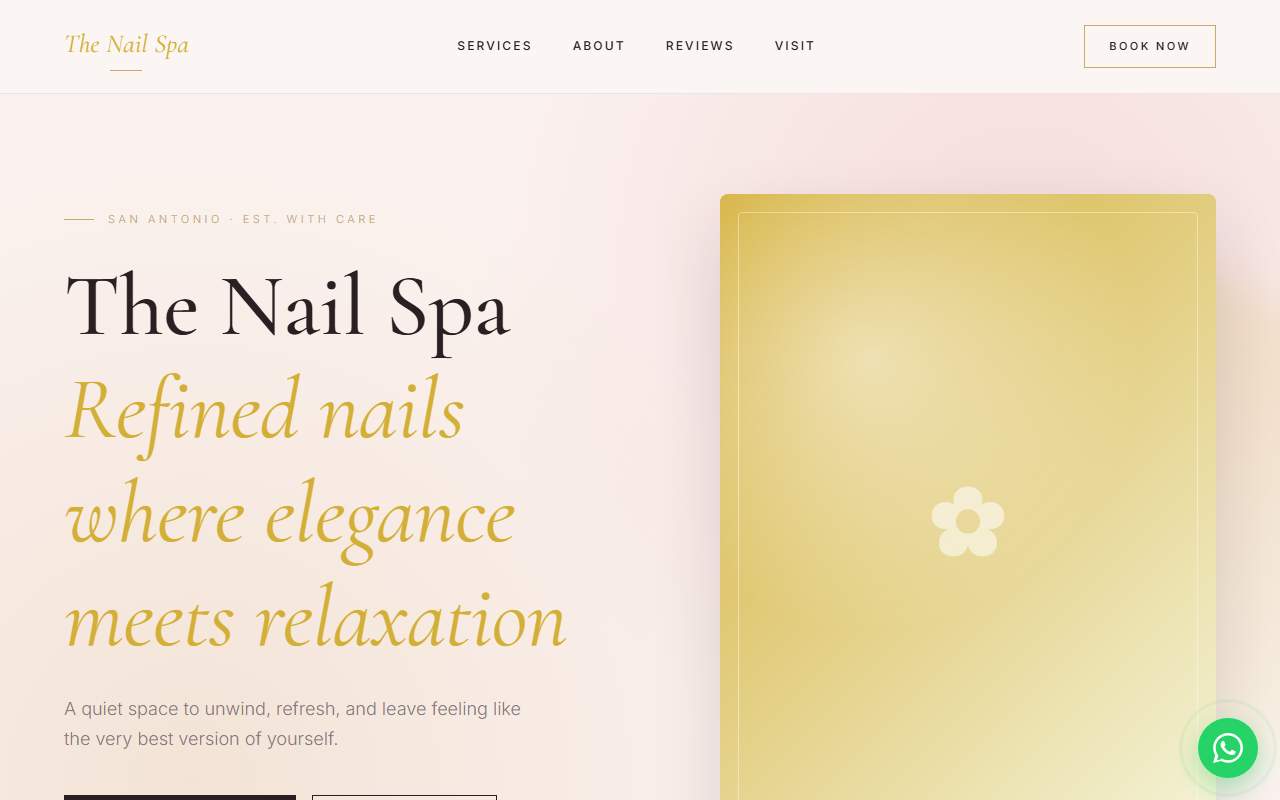
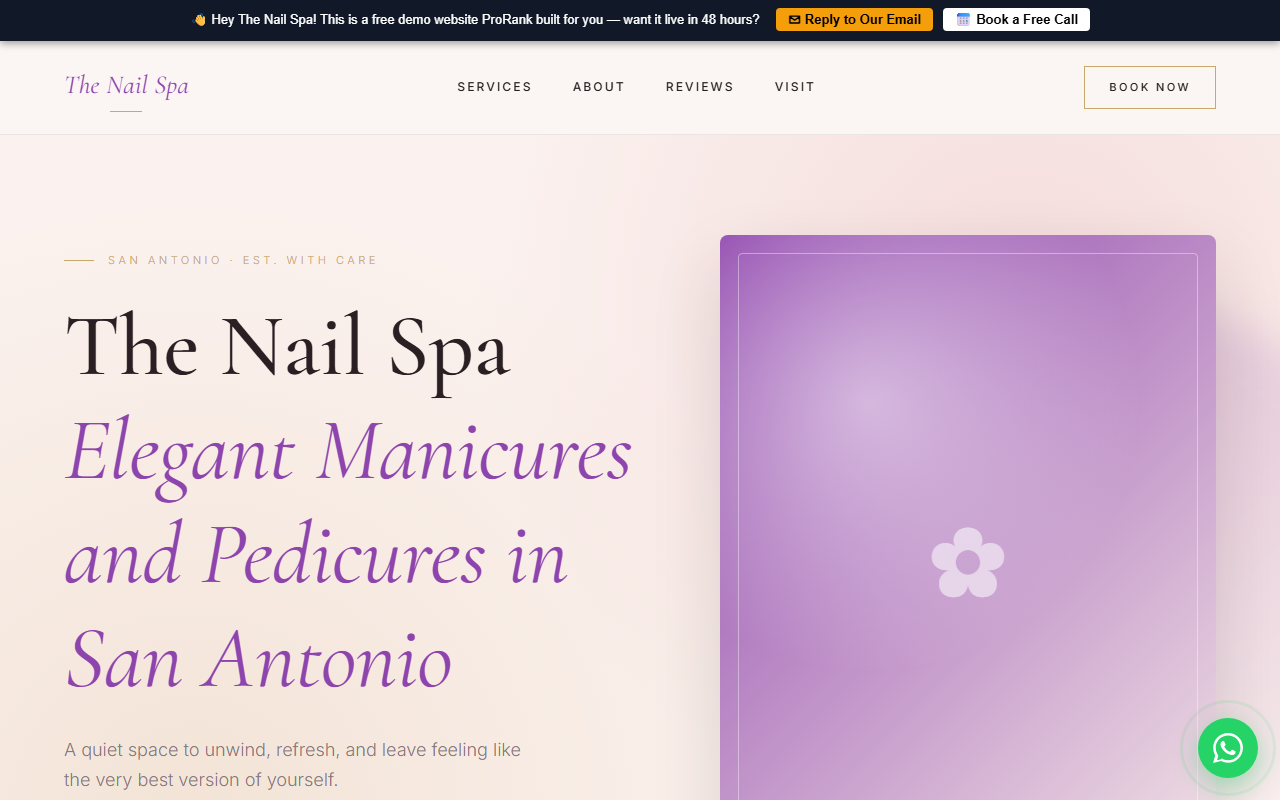
Add demo: the-nail-spa

diff --git a/the-nail-spa/index.html b/the-nail-spa/index.html
@@ -4,14 +4,14 @@
 <meta charset="UTF-8" />
 <meta name="viewport" content="width=device-width, initial-scale=1.0" />
 <title>The Nail Spa — San Antonio</title>
-<meta name="description" content="Experience elegant nail care at The Nail Spa in San Antonio. Our luxury manicures and sculptured nail art offer a relaxing retreat for your hands." />
+<meta name="description" content="The Nail Spa offers elegant gel extensions, classic spa pedicures, and custom nail art in San Antonio. Experience a relaxing, premium atmosphere at our convenient location." />
 <link rel="preconnect" href="https://fonts.googleapis.com">
 <link rel="preconnect" href="https://fonts.gstatic.com" crossorigin>
 <link href="https://fonts.googleapis.com/css2?family=Cormorant+Garamond:ital,wght@0,400;0,500;0,600;1,400&family=Inter:wght@300;400;500;600&display=swap" rel="stylesheet">
 <style>
   :root {
-    --primary: #D4AF37;
-    --secondary: #F5F5DC;
+    --primary: #8e44ad;
+    --secondary: #f5e6e6;
     --blush: #fbf2ef;
     --pearl: #faf6f3;
     --ink: #2a1f23;
@@ -311,6 +311,11 @@
 </style>
 </head>
 <body>
+<div id="prorank-banner" style="position:sticky; top:0; z-index:9999; background:#111827; color:#ffffff; text-align:center; padding:10px 20px; font-family:-apple-system,sans-serif; font-size:13px; line-height:1.6; box-shadow:0 2px 8px rgba(0,0,0,0.4);">
+  &#128075; <strong>Hey The Nail Spa!</strong> This is a <strong>free demo website</strong> ProRank built for you &mdash; want it live in <strong>48 hours?</strong> &nbsp;
+  <a href="mailto:prorankweb@gmail.com" style="background:#f59e0b; color:#000; font-weight:700; padding:4px 12px; border-radius:4px; text-decoration:none; margin:0 6px;">&#9993; Reply to Our Email</a>
+  <a href="https://calendly.com/lakshya1/quick-website-chat" target="_blank" style="background:#ffffff; color:#000; font-weight:700; padding:4px 12px; border-radius:4px; text-decoration:none;">&#128197; Book a Free Call</a>
+</div>
 
 <nav class="nav">
   <div class="nav-inner">
@@ -329,7 +334,7 @@
   <div class="hero-inner">
     <div class="hero-text">
       <div class="eyebrow">San Antonio · Est. with care</div>
-      <h1>The Nail Spa<br/><em>Refined nails where elegance meets relaxation</em></h1>
+      <h1>The Nail Spa<br/><em>Elegant Manicures and Pedicures in San Antonio</em></h1>
       <p class="lede">A quiet space to unwind, refresh, and leave feeling like the very best version of yourself.</p>
       <div class="hero-actions">
         <a href="tel:12108248590" class="btn btn-primary">Book Appointment</a>
@@ -351,19 +356,19 @@
       <div class="service-card">
         <span class="service-num">— No. 01 —</span>
         <div class="service-icon">✂</div>
-        <h3>Luxury manicures</h3>
+        <h3>Gel Nail Extensions</h3>
         <p>A consultation, a fresh perspective, and a finish that's unmistakably you.</p>
       </div>
       <div class="service-card">
         <span class="service-num">— No. 02 —</span>
         <div class="service-icon">❋</div>
-        <h3>Gel polish applications</h3>
+        <h3>Classic Spa Pedicures</h3>
         <p>Premium products, gentle technique, and results that hold up beautifully.</p>
       </div>
       <div class="service-card">
         <span class="service-num">— No. 03 —</span>
         <div class="service-icon">✿</div>
-        <h3>Sculptured nail art</h3>
+        <h3>Nail Art Designs</h3>
         <p>An hour just for you — to relax, refresh, and walk out glowing.</p>
       </div>
     </div>
